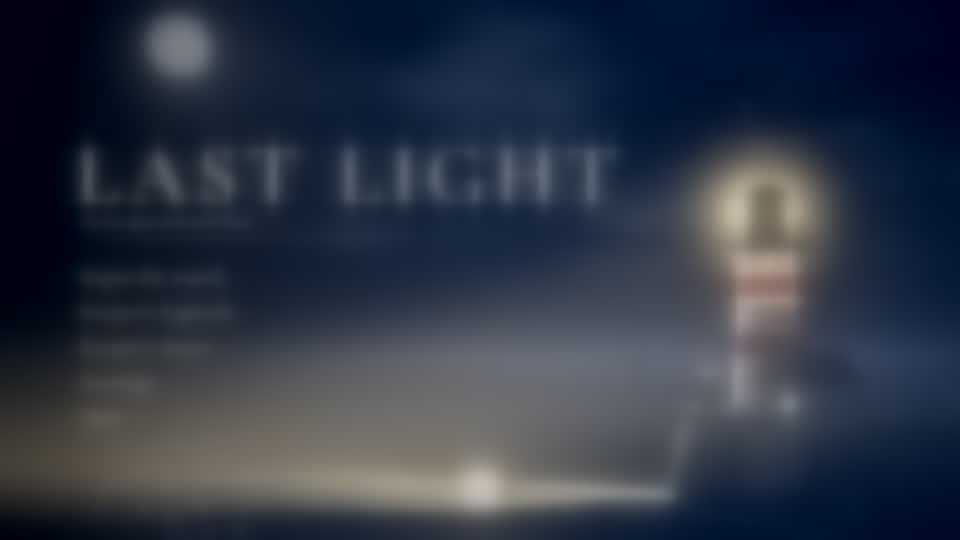
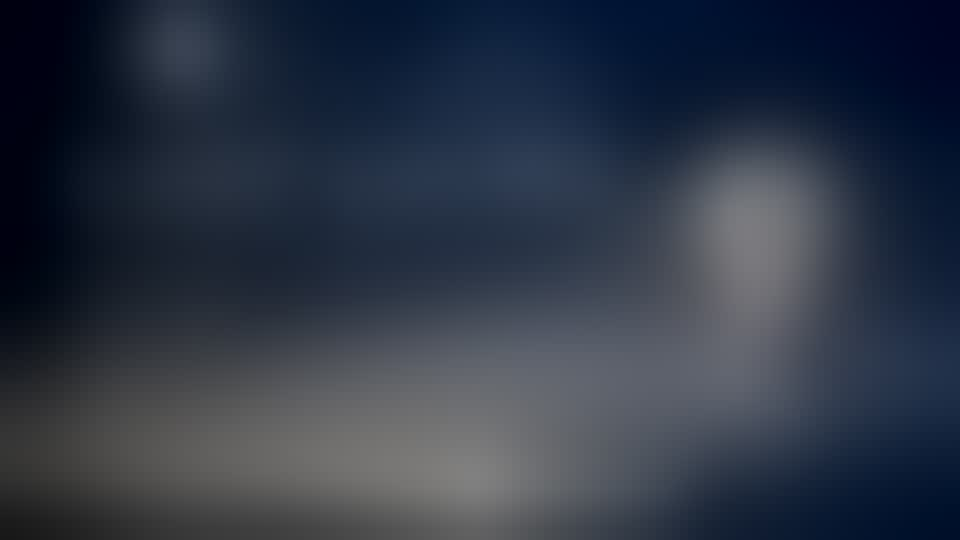
Web page and check fixes: a plainer backdrop, the right download, honest sound checks
The loading backdrop is blurred to a haze (the title's own letters showed through behind the
page's), and the no-WebGL message offers the Linux download, the only one published.

Tools/check-pages.mjs: Playwright counts a page as clicked from the start
(navigator.userActivation.hasBeenActive), so whether sound waits for a click is reported as not
testable there instead of failing; sound after a click still is. --play also checks that Mono sets
the page's output to one channel and back, and that Alt+Enter (held a few frames, as the game
reads keys once a frame) goes fullscreen and back. The server sends Content-Length, the download is
counted from resource timing, and blob: URLs the loader drops aren't failed requests. --steps
picks how far the Graphics fidelity check moves (default: Medium to High, so the night is played
on High).

diff --git a/Assets/WebGLTemplates/LastLight/index.html b/Assets/WebGLTemplates/LastLight/index.html
@@ -78,7 +78,7 @@
         if (!gl) {
           fail("Last Light needs <b>WebGL 2</b>, which this browser has turned off or doesn't offer. " +
                "Try a current Chrome, Edge or Firefox with hardware acceleration on, or " +
-               "<a href=\"https://github.com/nearbycoder/LastLight/releases\">download the game</a> for Windows, macOS or Linux.");
+               "<a href=\"https://github.com/nearbycoder/LastLight/releases\">download the game</a> for Linux.");
           return;
         }
 
